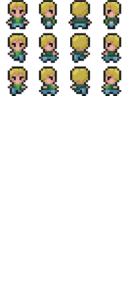
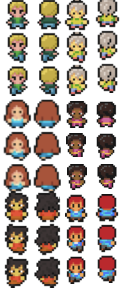
added npcs to people (#10)

diff --git a/js/display.js b/js/display.js
@@ -8,15 +8,15 @@ let bkworld = new Array(41).fill(new Array(41).fill(0));
 // middle layer - dirt, water, fences, etc.
 let world = [
   [78, 77, 77, 77, 78, 77, 77, 77, 78, 77, 77, 77, 78, 77, 77, 77, 78, 77, 77, 77, 78, 77, 77, 77, 78, 77, 77, 77, 78, 77, 77, 77, 78, 77, 77, 77, 78, 77, 77, 77],
-  [77, 101, 93, 93, 93, 93, 93, 93, 93, 93, 93, 93, 93, 93, 93, 93, 93, 93, 102, 81, 81, 101, 93, 93, 93, 93, 93, 93, 93, 93, 93, 93, 93, 93, 93, 93, 93, 93, 102, 77],
-  [77, 91, 3, 3, 3, 3, 37, 37, 37, 37, 37, 37, 37, 37, 3, 3, 3, 3, 103, 81, 81, 91, 3, 3, 3, 3, 3, 3, 3, 3, 103, 3, 3, 3, 3, 3, 3, 3, 103, 77],
-  [77, 91, 3, 3, 3, 3, 3, 3, 3, 3, 3, 3, 3, 3, 3, 3, 3, 3, 103, 81, 81, 91, 3, 3, 3, 3, 3, 3, 3, 3, 103, 3, 3, 3, 3, 3, 3, 3, 103, 78],
-  [78, 91, 3, 3, 38, 3, 38, 3, 38, 3, 3, 38, 3, 38, 3, 38, 3, 3, 103, 81, 81, 91, 3, 3, 3, 3, 3, 3, 3, 3, 103, 3, 3, 3, 3, 3, 3, 3, 103, 77],
-  [77, 91, 3, 3, 48, 3, 48, 3, 48, 3, 3, 48, 3, 48, 3, 48, 3, 3, 103, 81, 81, 91, 3, 3, 3, 3, 3, 3, 3, 3, 103, 3, 3, 3, 3, 3, 3, 3, 103, 77],
-  [77, 91, 3, 3, 3, 3, 3, 3, 3, 3, 3, 3, 3, 3, 3, 3, 3, 3, 103, 81, 81, 91, 3, 3, 3, 3, 3, 3, 3, 3, 103, 3, 3, 3, 3, 3, 3, 3, 103, 77],
-  [77, 91, 3, 3, 3, 3, 3, 3, 3, 3, 3, 3, 3, 3, 3, 3, 3, 3, 103, 81, 81, 91, 3, 3, 3, 3, 3, 3, 3, 3, 103, 3, 3, 3, 3, 3, 3, 3, 103, 78],
-  [78, 91, 3, 3, 3, 3, 3, 3, 3, 3, 3, 3, 3, 3, 3, 3, 3, 3, 103, 81, 81, 91, 3, 3, 3, 3, 3, 3, 3, 3, 103, 3, 3, 3, 3, 3, 3, 3, 103, 77],
-  [77, 89, 93, 93, 93, 93, 93, 93, 93, 3, 3, 93, 93, 93, 93, 93, 93, 93, 90, 81, 81, 89, 93, 93, 93, 3, 3, 93, 93, 93, 115, 93, 93, 93, 93, 93, 93, 93, 90, 77],
+  [77, 101, 93, 93, 93, 93, 93, 93, 93, 93, 93, 93, 102, 81, 81, 81, 81,3,101, 93, 93, 93, 93, 93, 93, 93, 93, 93, 93, 93, 93, 93, 93,93,93,93, 93, 93, 102, 77],
+  [77, 91, 3,37, 37, 37, 37, 37, 37, 37, 37, 3, 103, 81, 81, 81, 81,3, 91, 3, 3, 3, 3, 3, 3, 3, 103, 3, 3, 3, 3, 3, 3, 3, 3, 3, 3, 3, 103, 77],
+  [77, 91, 3, 3, 3, 3, 3, 3, 3, 3, 3, 3, 103, 81, 81, 81, 81,3, 91, 3, 79, 79, 79, 79, 79, 3, 103, 3, 3, 3, 3, 3, 3,3, 3, 3, 3, 3, 103, 78],
+  [78, 91, 3, 3, 38, 38, 38, 38, 38, 38, 3, 3,  103, 81, 81, 81,81, 3, 91, 3, 79, 123, 124, 125, 79, 3, 103, 3, 3, 3, 3 ,3, 3, 3, 3, 3, 3, 3, 103, 77],
+  [77, 91, 3, 3, 48, 48, 48, 48, 48, 48, 3,  3, 103, 81, 81, 81,81, 3, 91, 3, 79, 135, 136, 137, 79, 3, 103, 3, 3, 3, 3,3, 3, 3, 3, 3, 3, 3, 103, 77],
+  [77, 91, 3, 3, 3, 3, 3, 3, 3, 3, 3, 3,  103, 81, 81, 81, 81, 3, 91, 3, 3, 3, 3, 3, 3, 3, 103, 3, 3, 3, 3, 3, 3,3, 3, 3, 3, 3, 103, 77],
+  [77, 91, 3, 3, 3, 3, 3, 3, 3, 3, 3, 3,  103, 81, 81, 81, 81, 3, 91, 3, 3, 3, 3, 3, 3, 3, 103, 3, 3, 3, 3, 3,3, 3, 3, 3, 3, 3, 103, 78],
+  [78, 91, 3, 3, 3, 3, 3, 3, 3, 3, 3, 3, 103, 81, 81, 81, 81, 3, 91, 3, 3, 3, 3, 3, 3, 3, 103, 3, 3, 3, 3,3, 3, 3, 3, 3, 3, 3, 103, 77],
+  [77, 89, 93, 93, 93, 93,  3, 3, 93,93, 93, 93, 90, 81, 81, 81, 81, 3,89, 93, 93, 3, 3, 3, 93, 93, 115, 93, 93, 93, 93,93,93,93,93, 93, 93, 93, 90, 77],
   [77, 3, 3, 3, 3, 3, 3, 3, 3, 3, 3, 3, 3, 3, 3, 3, 3, 3, 3, 3, 3, 3, 3, 3, 3, 3, 3, 3, 3, 3, 3, 3, 3, 3, 3, 3, 3, 3, 3, 3, 3],
   [77, 3, 3, 3, 3, 3, 3, 3, 3, 3, 3, 3, 3, 3, 3, 3, 3, 3, 3, 3, 3, 3, 3, 3, 3, 3, 3, 3, 3, 3, 3, 3, 3, 3, 3, 3, 3, 3, 3, 3],
   [78, 3, 3, 12, 12, 12, 3, 12, 12, 12, 3, 3, 12, 12, 12, 12, 12, 3, 12, 12, 12, 12, 12, 3, 3, 3, 3, 3, 3, 3, 3, 3, 3, 3, 3, 3, 3, 3, 3, 3],
@@ -42,8 +42,8 @@ let world = [
 
   [77, 3, 3, 40, 40, 3, 3, 40, 40, 3, 3, 40, 40, 3, 3, 40, 40, 3, 81, 81, 81, 83, 82, 82, 82, 82, 82, 82, 82, 82, 82, 120, 132, 132, 132, 132, 132, 132, 132, 122, 82, 82, 82, 82, 82, 82, 82, 82, 82, 82],
   [78, 3, 3, 40, 40, 3, 3, 40, 40, 3, 3, 40, 40, 3, 3, 40, 40, 3, 81, 81, 81, 83, 82, 82, 82, 82, 82, 82, 82, 82, 82, 82, 82, 82, 82, 82, 82, 82, 82, 82],
-  [77, 3, 3, 40, 40, 3, 3, 40, 40, 3, 3, 40, 40, 3, 3, 40, 40, 3, 81, 81, 81, 83, 82, 82, 82, 82, 82, 82, 82, 82, 82, 82, 82, 82, 82, 82, 82, 82, 82, 82],
-  [77, 3, 3, 40, 40, 3, 3, 40, 40, 3, 3, 40, 40, 3, 3, 40, 40, 3, 81, 81, 81, 83, 108, 109, 109, 109, 109, 109, 109, 109, 110, 82, 82, 82, 82, 82, 82, 82, 82, 82, 82, 82, 82, 82, 82],
+  [77, 3, 3, 40, 40, 3, 3, 40, 40, 3, 3, 40, 40, 3, 3, 40, 40, 3, 81, 81, 81, 83, 108, 109, 109, 109, 109, 109, 109, 109, 110, 82, 82, 82, 82, 82, 82, 82],
+  [77, 3, 3, 40, 40, 3, 3, 40, 40, 3, 3, 40, 40, 3, 3, 40, 40, 3, 81, 81, 81, 83, 120, 95, 95, 95, 95, 95, 95, 95, 122, 82, 82, 82, 82, 82, 82, 82, 82, 82, 82, 82, 82, 82, 82],
   [77, 3, 3, 40, 40, 3, 3, 40, 40, 3, 3, 40, 40, 3, 3, 40, 40, 3, 81, 81, 81, 83, 120, 96, 97, 98, 99, 100, 111, 112, 122, 82, 82, 82, 82, 82, 82, 82, 82, 82, 82, 82, 82, 82, 82, 82, 82],
   [78, 3, 3, 39, 39, 3, 3, 39, 39, 3, 3, 39, 39, 3, 3, 39, 39, 3, 81, 81, 81, 83, 82, 82, 82, 82, 82, 82, 82, 82, 82, 82, 82, 82, 82, 82, 82, 82, 82, 82, 82, 82],
   [77, 3, 3, 3, 3, 3, 3, 3, 3, 3, 3, 3, 3, 3, 3, 3, 3, 3, 81, 81, 81, 83, 82, 82, 82, 82, 82, 82, 82, 82, 82, 82, 82, 82, 82, 82, 82, 82, 82, 82, 82],
@@ -205,6 +205,33 @@ function drawNPC(id, screenX, screenY) {
 
 }
 
+// drawing using the character tileset (all directions and mvmt of a player)
+function drawAnimals(id, screenX, screenY) {
+  push();
+  translate(offsetX, offsetY);
+
+
+  let tilesPerRow = int(chickenArtwork.width / tileSize);
+  let imageX = int(id % tilesPerRow) * tileSize;
+  let imageY = int(id / tilesPerRow) * tileSize;
+
+  image(
+      chickenArtwork,
+      screenX,
+      screenY,
+      tileSize,
+      tileSize,
+      imageX,
+      imageY,
+      tileSize,
+      tileSize
+  );
+
+  pop();
+
+
+}
+
 // drawing using the food tileset (progress represents how big the image is)
 function drawRecipe(id, screenX, screenY, progress) {
     push();
@@ -240,8 +267,9 @@ function getState(screenX, screenY) {
     } else if (id == 38) {
         return "food";
     } else if (id == 48) {
+      console.log("a")
         return "stove";
-    } else if (id == 51) {
+    } else if (id == 135 || id ==  136 || id == 137) {
         return "cow";
     } else if (id == 39) {
         return "sale";

diff --git a/js/NPC.js b/js/NPC.js
@@ -1,15 +1,21 @@
 // Player Variables
 
-
+let npcIds = [0,12,24,2,14,26];
 class NPC {
   // Players have a default speed, do not carry a water can, and will grow potatoes
-  constructor(x, y) {
+  constructor(x, y, imageFactor) {
     this.x = x;
     this.y = y;
     this.speed = random(3,5) * random(.5,.8);
+    if (imageFactor == undefined){
+      this.imageFactor = random(npcIds);
+    } else {
+      this.imageFactor = imageFactor
+    }
     // Character tileset has three images in each direction.
     // Offset allows us to fluctuate between all three to mimic the animation of walking
     this.graphicOffset = 0;
+    this.graphic = this.imageFactor;
     this.on = false;
   }
 
@@ -31,6 +37,7 @@ class NPC {
         this.direction = "up";
       } else {
         this.y = (plantWorld.length + 1)* tileSize;
+        this.imageFactor = random([0,12,24,2,14,26]);
       }
     }
 
@@ -42,11 +49,11 @@ class NPC {
 
     if (this.direction == "up"){
       this.y -= this.speed;
-      this.graphic = [2, 6, 10][this.graphicOffset];
+      this.graphic = [1 + this.imageFactor, 5 + this.imageFactor, 9 + this.imageFactor][this.graphicOffset];
     } else if (this.direction == "down"){
 
       this.y += this.speed;
-      this.graphic = [0, 4, 8][this.graphicOffset];
+      this.graphic = [0 + this.imageFactor, 4 + this.imageFactor, 8 + this.imageFactor][this.graphicOffset];
     }
 
     this.graphicOffset++;
@@ -56,9 +63,14 @@ class NPC {
 
     drawNPC(this.graphic, this.x, this.y);   
   }
+
+  display(){
+    drawNPC(this.graphic, this.x, this.y);   
+  }
 }
 
 let npcs = [];
+let fakeNpcs = [];
 
 // Configure booths setup
 function setupNPC() {
@@ -66,12 +78,20 @@ function setupNPC() {
     let temp = new NPC(x * tileSize, (plantWorld.length + 1) * tileSize);
     npcs.push(temp);
   }
+  for (let x = 23; x < 30; x++) {
+    let temp = new NPC(x * tileSize, (plantWorld.length + 1) * tileSize - 190, npcIds[x-23]);
+    fakeNpcs.push(temp);
+  }
 }
 
 // Show off the booths
 function displayNPC() {
   for (npc of npcs) {
     npc.moveAndDisplay();
+  }
+  for (npc of fakeNpcs){
+    npc.display();
+
   }
 }
 

diff --git a/js/animal.js b/js/animal.js
@@ -1,0 +1,90 @@
+// Player Variables
+
+
+class Animal {
+  // Players have a default speed, do not carry a water can, and will grow potatoes
+  constructor() {
+    this.x = random(30,34) ;
+    this.minX = random(27, 30);
+    this.maxX = random(34,37);
+    this.y = random(2,8) ;
+    this.speed = random(0.01,0.05);
+    this.ySpeed = random(-0.03,0.03);
+
+    if (random([1,2]) == 1){
+      this.speed *= -1;
+    }
+    // Character tileset has three images in each direction.
+    // Offset allows us to fluctuate between all three to mimic the animation of walking
+    this.graphicOffset = 0;
+
+    this.xNoiseOffset = random(0,500);
+    this.yNoiseOffset = random(0,500);
+
+  }
+//     this.x = constrain(this.x + xMovement, 27, 37);
+
+  moveAndDisplay() {
+    this.x += this.speed;
+
+    if (random(1,10) < 2){
+      this.y += this.ySpeed;
+    }
+    
+
+    if (this.x >= this.maxX){
+      this.speed *= -1;
+    }
+
+    if (this.x <= this.minX){
+      this.speed *= -1;
+    }
+
+    if (this.y >= 2){
+      this.ySpeed *= -1;
+    }
+
+    if (this.y <= 8){
+      this.ySpeed *= -1;
+    }
+
+    if (this.speed > 0){
+      this.direction = "right"
+    } else {
+      this.direction = "left";
+    }
+
+    if (this.direction == "left"){
+      this.graphic = [5, 6, 7, 8][this.graphicOffset];
+    } else if (this.direction == "right"){
+      this.graphic = [13,14,15,16][this.graphicOffset];
+    }
+
+    this.graphicOffset++;
+    if (this.graphicOffset == 3) {
+      this.graphicOffset = 0;
+    }
+
+
+
+    drawAnimals(this.graphic, this.x * tileSize, this.y * tileSize);   
+  }
+}
+
+let animals = [];
+
+// Configure booths setup
+function setupAnimals() {
+  noiseDetail(24);
+  for (let x = 0; x < 30; x++) {
+    let temp = new Animal();
+    animals.push(temp);
+  }
+}
+
+// Show off the booths
+function displayAnimals() {
+  for (animal of animals) {
+    animal.moveAndDisplay();
+  }
+}

diff --git a/js/sketch.js b/js/sketch.js
@@ -19,7 +19,8 @@ let tilesetArtwork,
   milkPic,
   poopPic,
   bucketPic,
-  NPCArtwork;
+  NPCArtwork,
+  chickenArtwork;
 
 // Start Screen artwork variables
 let carrotPic,
@@ -106,6 +107,7 @@ function preload() {
   NPCArtwork = loadImage("images/npc.png");
   characterArtwork = loadImage("images/character.png");
   foodArtwork = loadImage("images/food.png");
+  chickenArtwork = loadImage("images/chicken_walk.png");
   cloud = loadImage("images/cloud.png");
   cowPic = loadImage("images/cow.png");
   milkPic = loadImage("images/milk.png");
@@ -168,6 +170,7 @@ function setup() {
   setupStoves();
   setupBooths();
   setupNPC();
+  setupAnimals();
 
   // setting up cow game
   cowGameState = false;
@@ -226,6 +229,7 @@ function draw() {
     displayInventory();
     displayBooths();
     displayNPC();
+    displayAnimals();
     player.moveAndDisplay();
 
     // achievement popup windows
@@ -400,6 +404,7 @@ function openMenu() {
     closeNoSeeds();
     recipe_book.classList.remove("hidden");
     seed_panel.classList.add("hidden");
+    cooked_inventory.classList.add("hidden");
   } else {
     recipe_book.classList.add("hidden");
     cant_cook.classList.add("hidden");

diff --git a/js/stove.js b/js/stove.js
@@ -43,8 +43,8 @@ class Stove {
 
 // Configure stoves setup
 function setupStoves() {
-  for (let x = 2; x < 6; x++) {
-    let temp = new Stove(x, 2);
+  for (let x = 4; x < 10; x++) {
+    let temp = new Stove(x, 5);
     stoves.push(temp);
   }
 }
@@ -52,7 +52,7 @@ function setupStoves() {
 // Show off the stoves
 function displayStoves() {
   for (stove of stoves) {
-    // drawTile(stove.id, stove.x * tileSize, stove.y * tileSize);
+    drawTile(stove.id, stove.x * tileSize, stove.y * tileSize);
     if (stove.on) {
       stove.displayCookingProgress();
     }
@@ -61,8 +61,7 @@ function displayStoves() {
 
 // Allow for cokoking based on recipe
 function cookOnStove(recipe) {
-  let stoveNum = constrain(int(map(player.x, 48, 180, 0, 4)), 0, 3);
-
+  let stoveNum = int(map(player.x, tileSize * 3.7, tileSize * 9.5, 0, 6));
   let stove = stoves[stoveNum];
   if (stove.on) {
     return false;
@@ -73,7 +72,7 @@ function cookOnStove(recipe) {
 }
 
 function finishCooking(screenX, screenY) {
-  let stoveNum = int(screenX / 32) - 2;
+  let stoveNum = int(screenX / 32) - 4;
   if (stoves[stoveNum].on && stoves[stoveNum].progress >= 1) {
     stoves[stoveNum].turnOff();
   }

diff --git a/js/player.js b/js/player.js
@@ -8,7 +8,7 @@ class Player {
   constructor(x, y) {
     this.x = x;
     this.y = y;
-    this.speed = 14;
+    this.speed = 10;
     this.water = false;
     this.currentSeed = "potatoes";
     // Character tileset has three images in each direction.
@@ -242,11 +242,11 @@ class Player {
     drawPlayer(this.graphic, this.x, this.y);
 
     // Close recipe book when out of range of the stoves
-    if (this.y < 80 || this.y > 110 || this.x < 40 || this.x > 180) {
-      recipe_book.classList.add("hidden");
-      cant_cook.classList.add("hidden");
-      cant_bake.classList.add("hidden");
-    }
+    // if (this.y < 80 || this.y > 110 || this.x < 40 || this.x > 180) {
+    //   recipe_book.classList.add("hidden");
+    //   cant_cook.classList.add("hidden");
+    //   cant_bake.classList.add("hidden");
+    // }
   }
 }
 

diff --git a/index.html b/index.html
@@ -500,6 +500,8 @@
       <script src="js/stove.js"></script>
       <script src="js/booth.js"></script>
       <script src="js/cowGame.js"></script>
+      <script src="js/animal.js"></script>
+
     </main>
   </body>
 </html>
